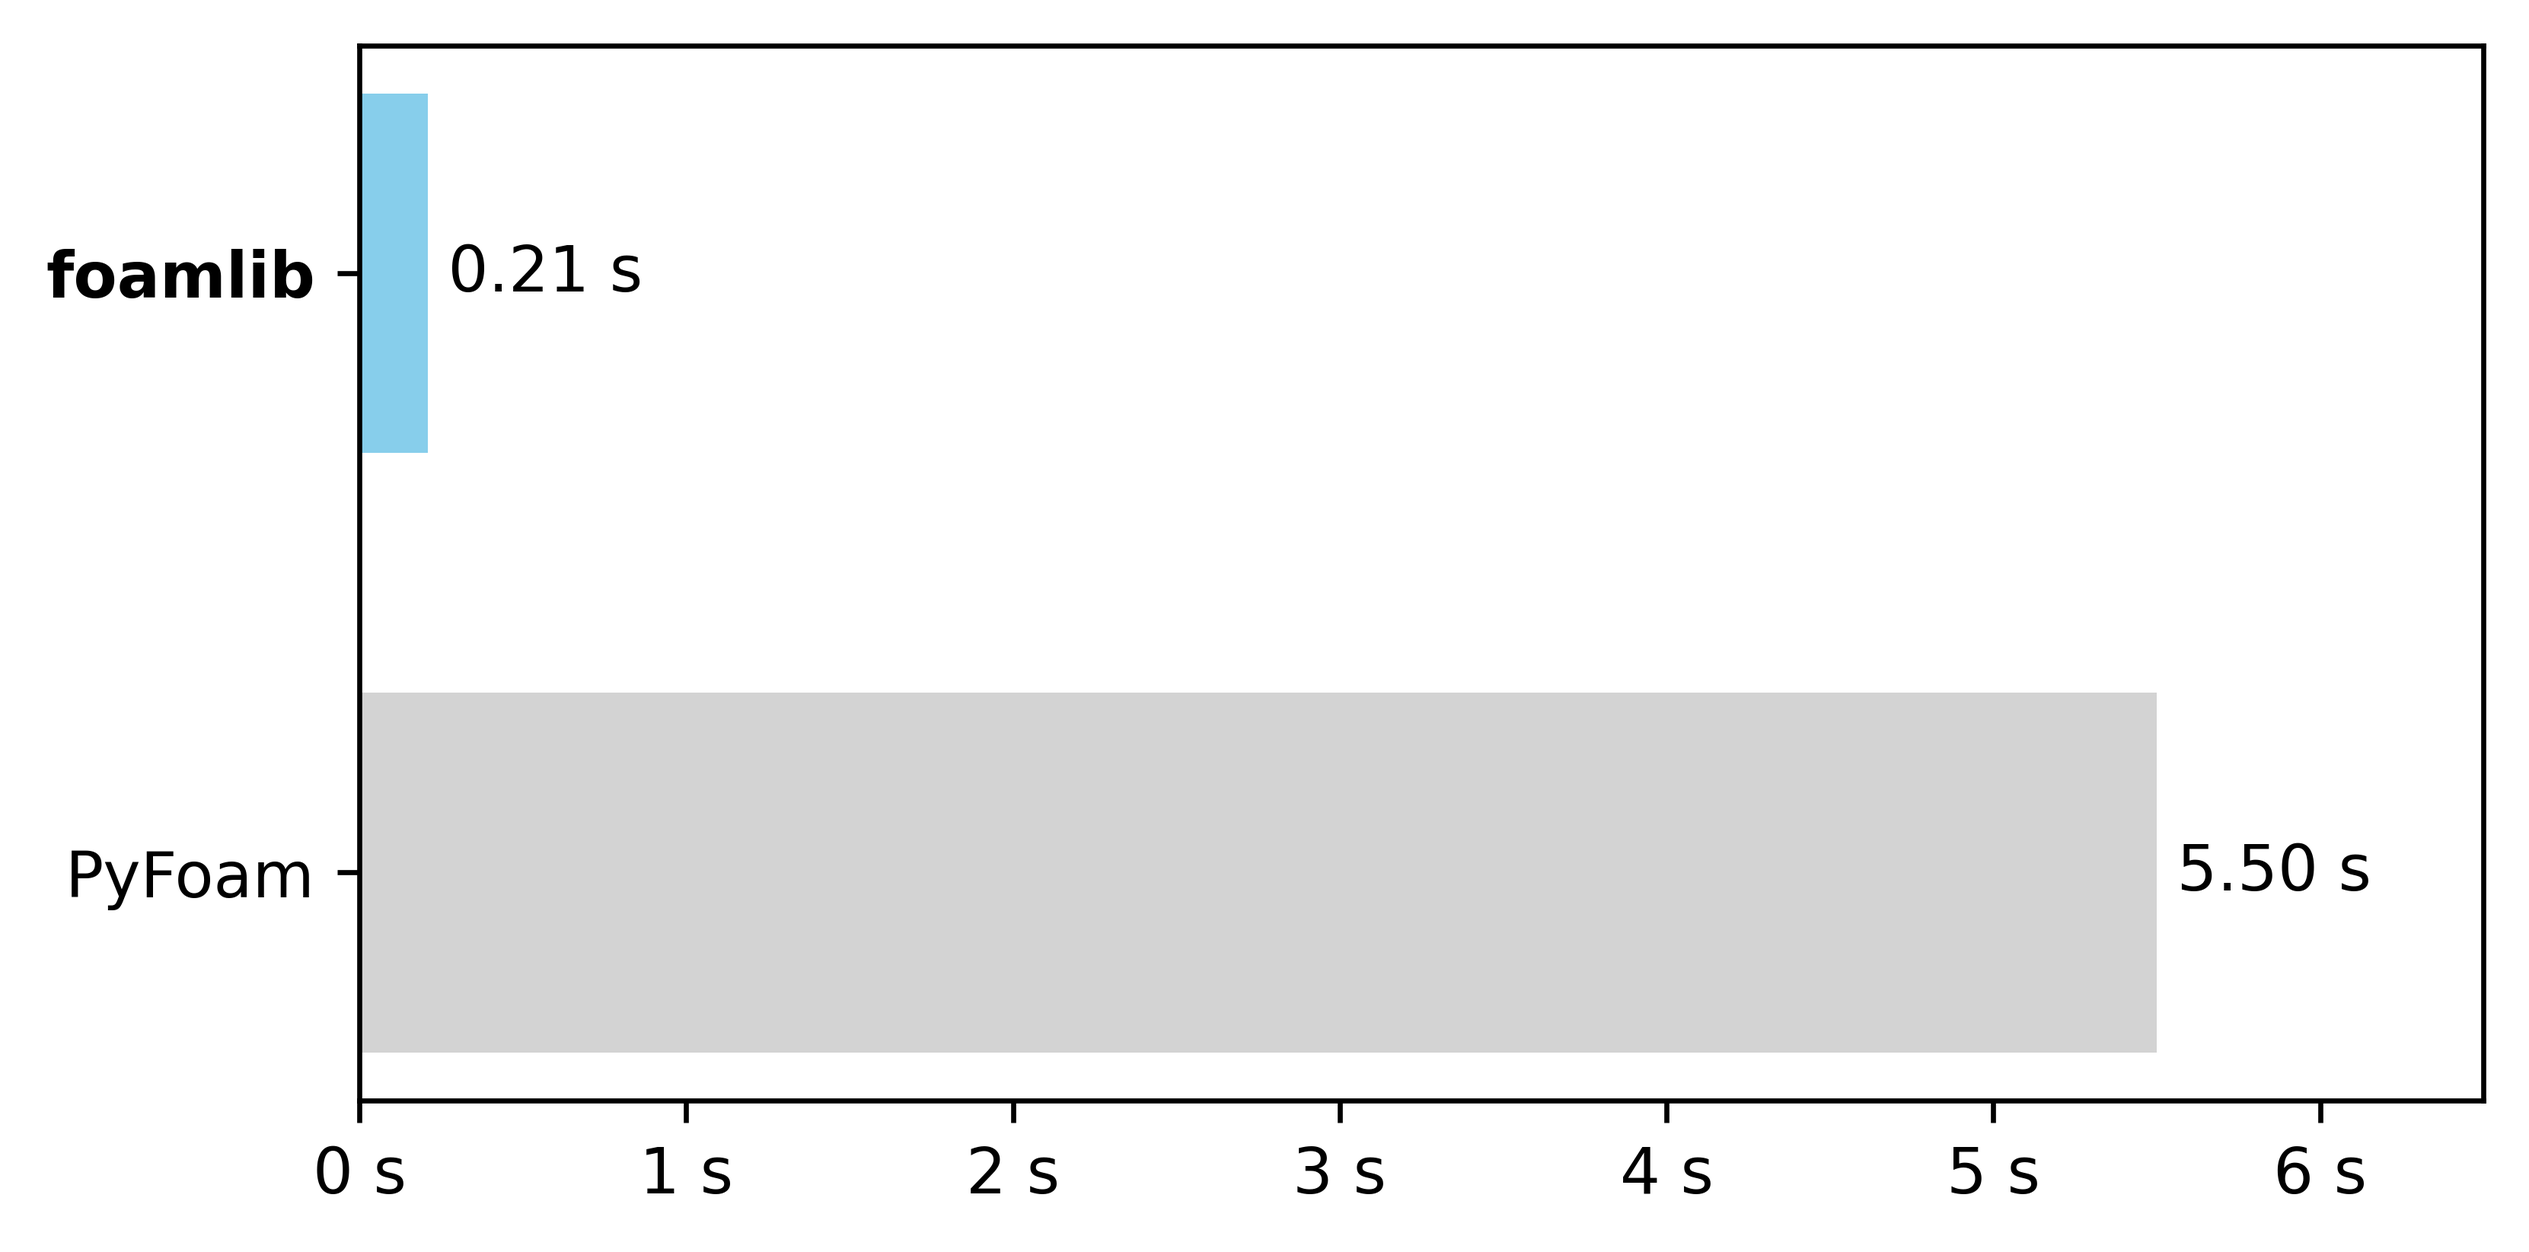
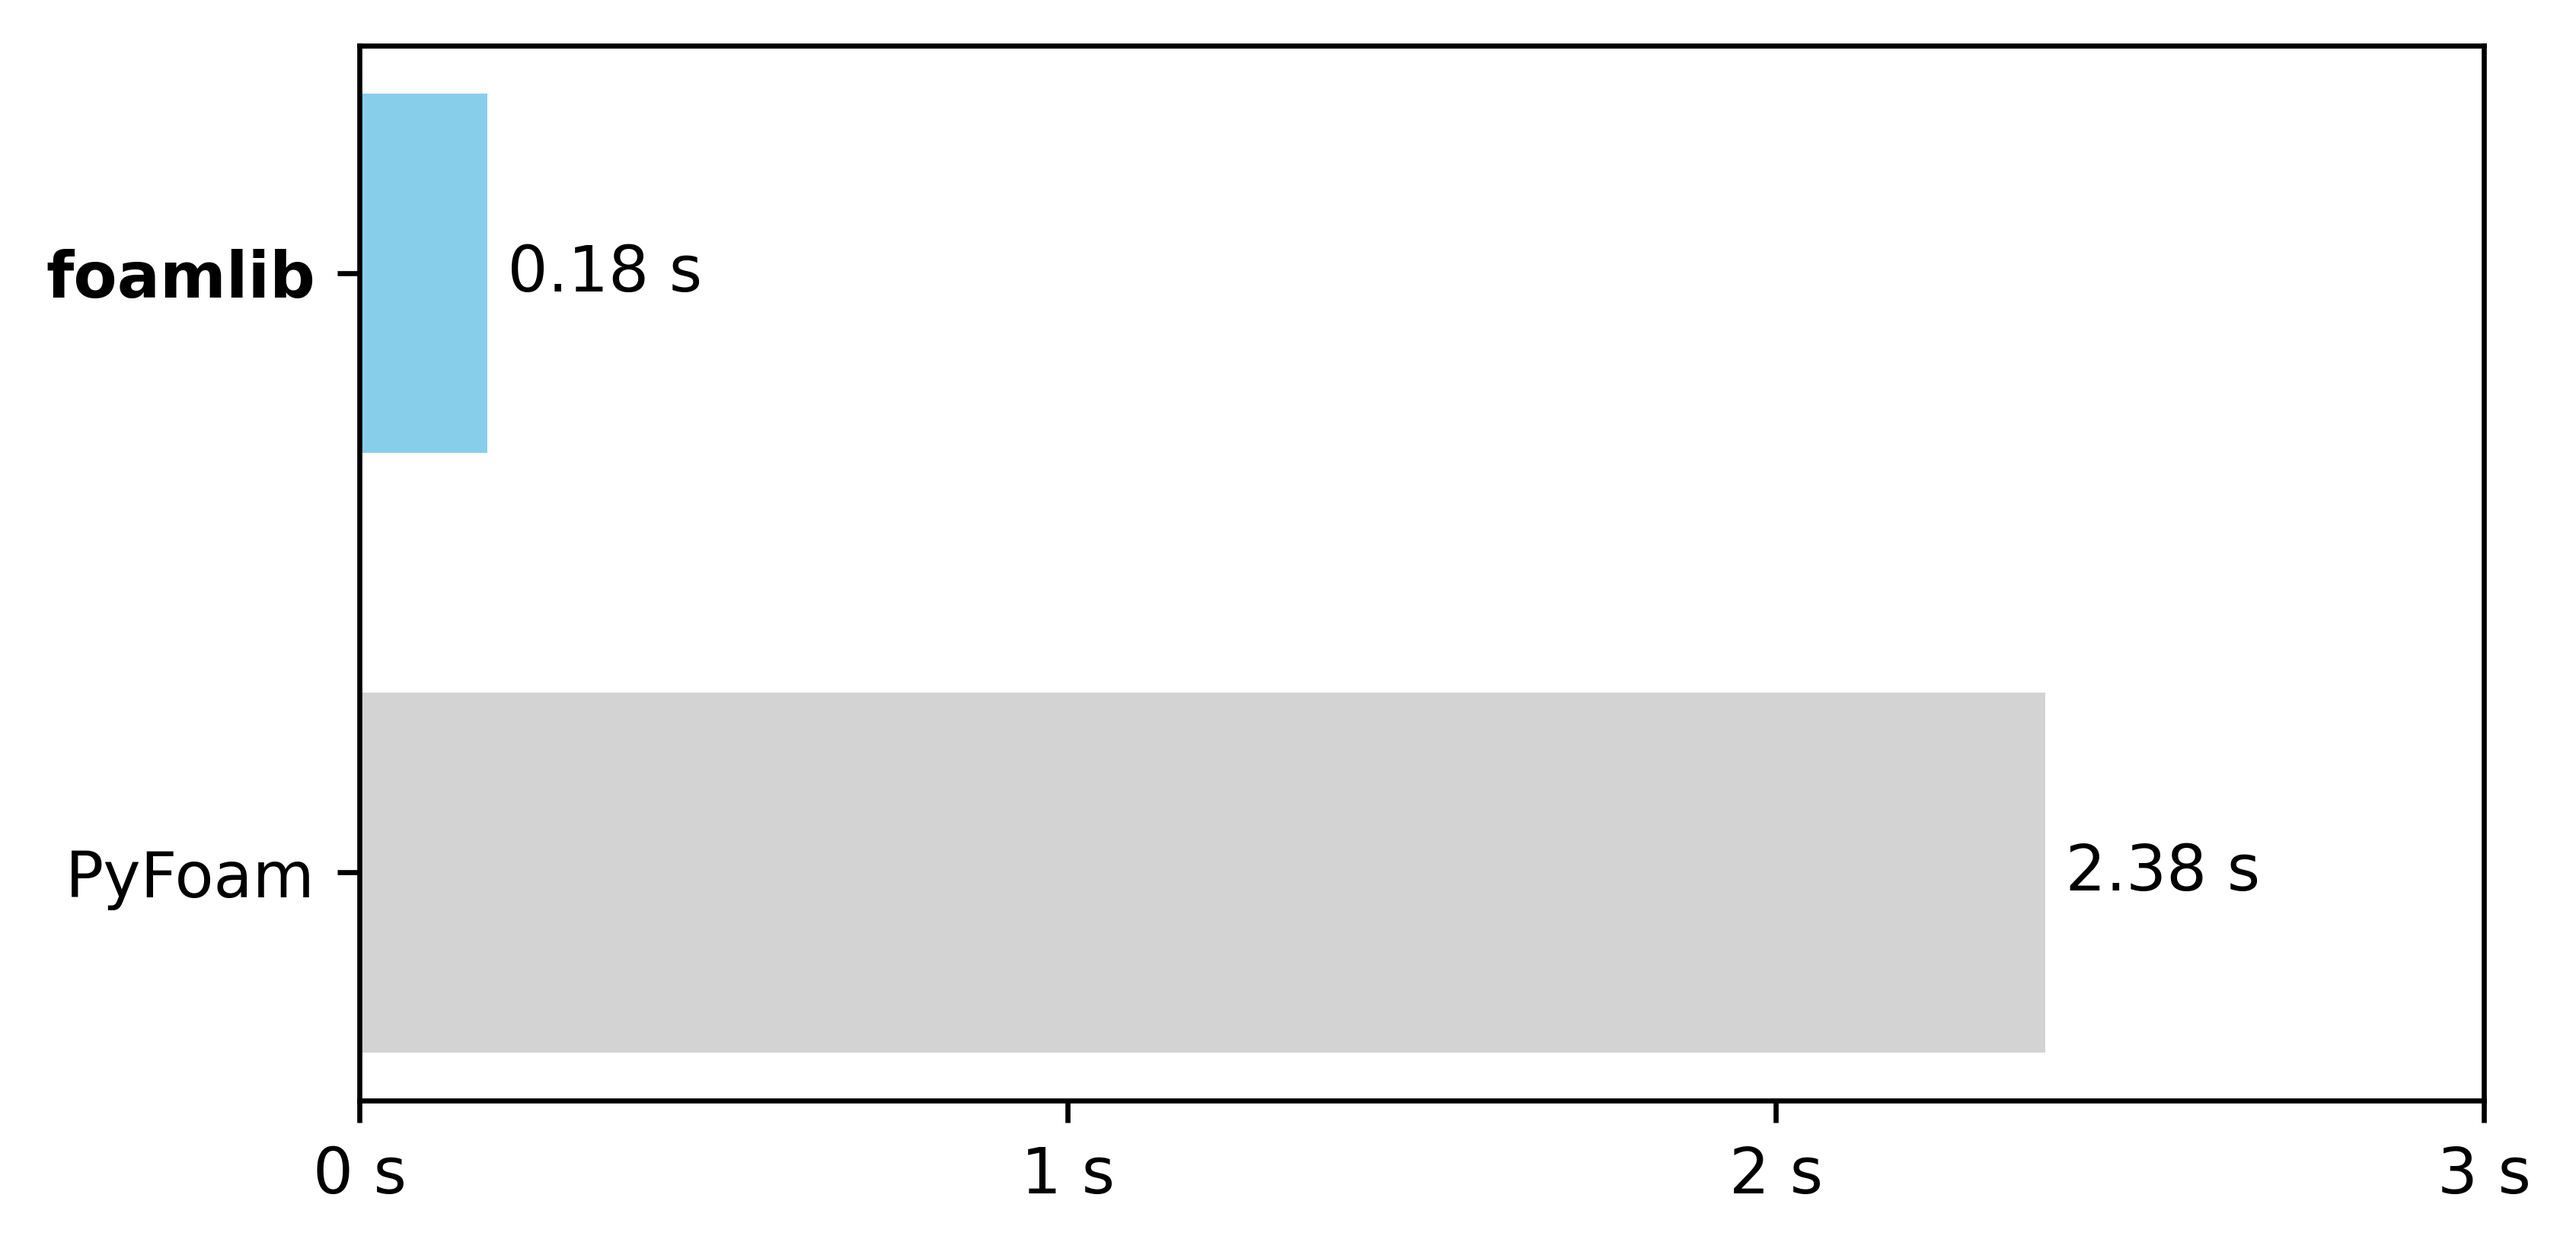
Update benchmark results

diff --git a/README.md b/README.md
@@ -282,4 +282,4 @@ If you use **foamlib** in your research, please cite our paper:
 
 ## 👟 Footnotes
 
-<a id="benchmark">[1]</a> foamlib 0.8.1 vs PyFoam 2023.7 on a MacBook Air (2020, M1) with 8 GB of RAM. [Benchmark script](benchmark/benchmark.py).
+<a id="benchmark">[1]</a> foamlib 1.3.7 vs PyFoam 2023.7 on a M3 MacBook Air. [Benchmark script](https://github.com/gerlero/foamlib/blob/main/benchmark/benchmark.py).
